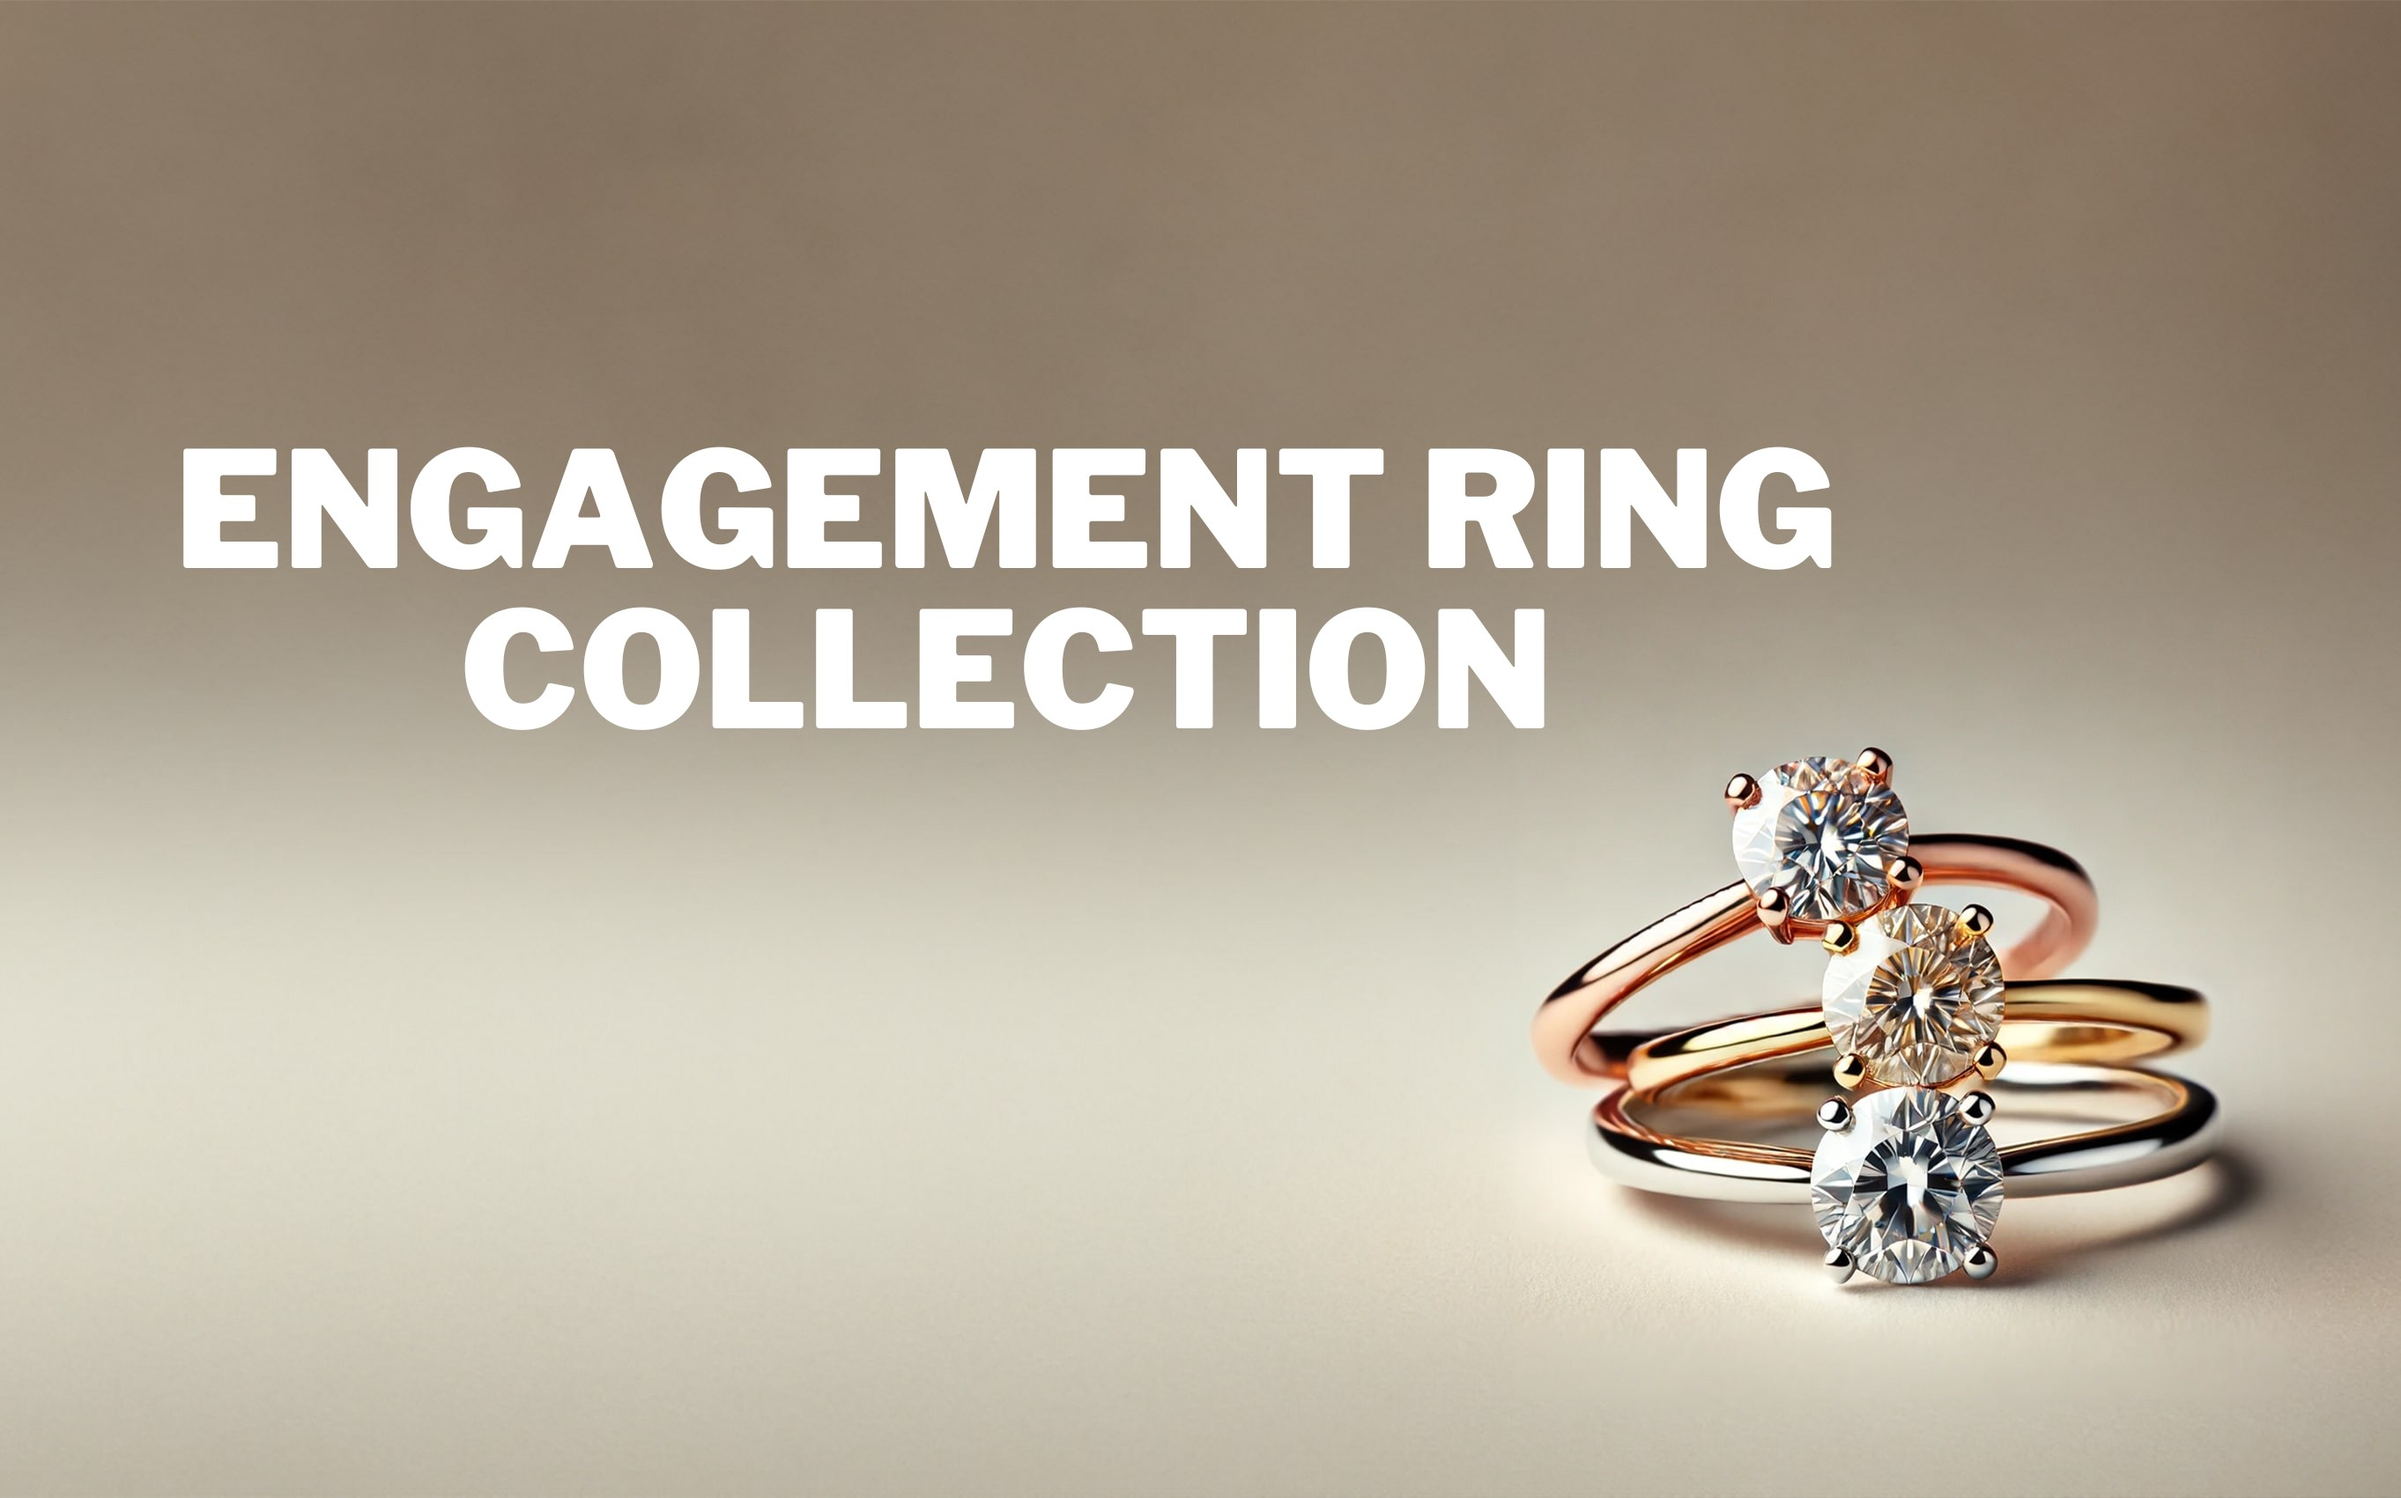
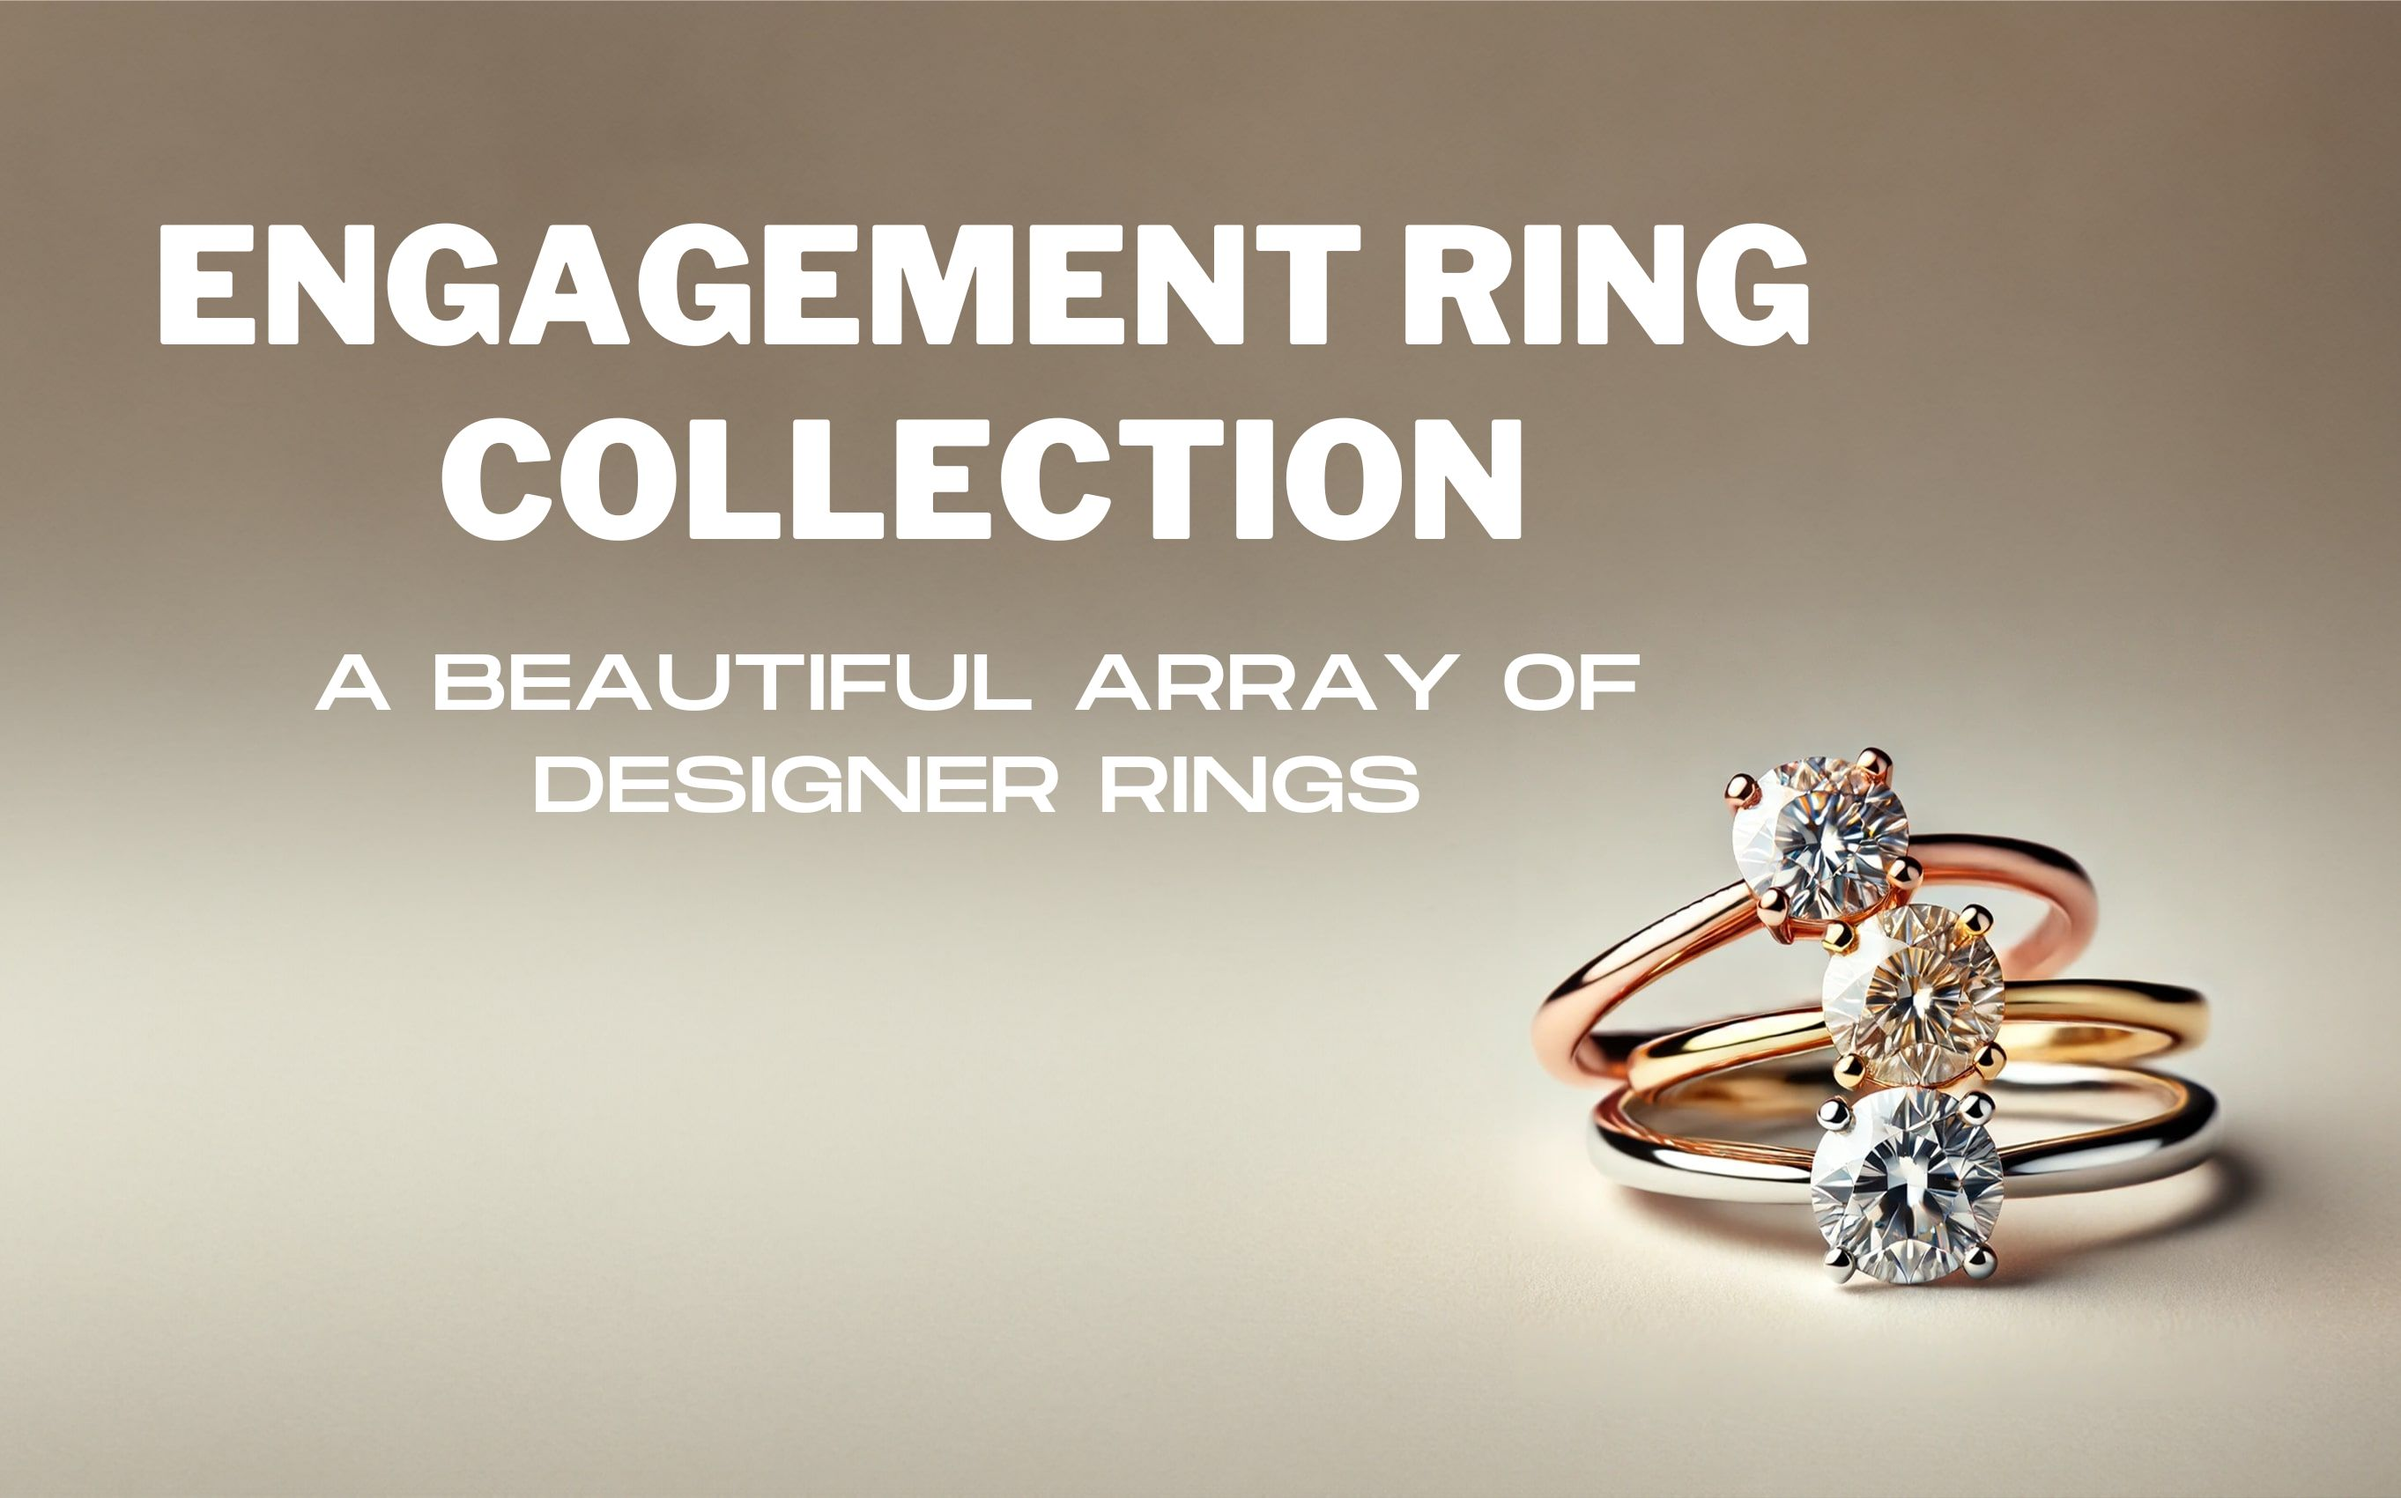
updated hero image on ring category page

Changed region(s): [[0.0624, 0.2804, 0.7798, 0.5608], [0.0624, 0.1246, 0.7798, 0.2493]]

diff --git a/app/rings/RingsCategoryClient.jsx b/app/rings/RingsCategoryClient.jsx
@@ -31,22 +31,15 @@ export default function RingsCategoryClient({ rings }){
               width={3320}
               height={2213}
               alt={'hero image of rings'}
-              className={styles.imageRing}
+              className={styles.imageRingHero}
               quality={100}
             />
 
             {/* <h1 className={styles.titleMain}>ENGAGEMENT RING COLLECTION</h1> */}
 
             <div className={styles.contentTopContainer}>
-            <p className={styles.catDescription}>
-                A beautiful collection of bespoke Gold and Platinum 
-                engagement rings for the perfect moment
-            </p>
             
-            {/* CTA  */}
-            <div className={styles.contactDetailsBTNMobile}>
-                <Link href="tel:07718269994" className={styles.linkBTN} prefetch={true}>CONTACT</Link>
-            </div>
+            
             <div className={styles.contactBTNDesktop}>
                 <h3 className={styles.contactReview}>CONTACT</h3>
                 <div>07718 269 994</div>
@@ -113,6 +106,18 @@ export default function RingsCategoryClient({ rings }){
             ))
            )        
         }
+      </div>
+      {/* CTA  */}
+      <div className={styles.contactDetailsBTNMobile}>
+        <Link href="tel:07976753254" className={styles.linkBTN} prefetch={true}>CONTACT</Link>
+      </div>
+      <div className={styles.heroBtn}>
+        <Link
+          href={"https://wa.me/447976753254?text=Hi%20Luxury%20Times...."} 
+          className={styles.linkBTN}
+        >
+          WHATSAPP
+        </Link>
       </div>
     </main>
     )

diff --git a/app/rings/rings.module.css b/app/rings/rings.module.css
@@ -14,8 +14,20 @@
     font-size: 1.1rem;
 }
 
+.heroBtn {
+    margin: 40px auto;
+    padding: 10px;
+    max-width: 200px;
+    font-size: 1.1rem;
+    font-weight: 500;
+    text-align: center;
+    border-radius: 22px;
+    background: #91c0dc;
+    cursor: pointer;
+  }
+
 .contactDetailsBTNMobile {
-    margin: 0px auto 20px auto;
+    margin: 20px auto 20px auto;
     padding: 10px 30px;
     max-width: 150px;
     border: solid 2px #91c0dc;
@@ -70,6 +82,12 @@
     width: 100%;
     height: auto;
 } 
+
+.imageRingHero {
+    width: 100%;
+    height: auto;
+    margin-bottom: 50px;
+}
 
 .video {
     width: 100%;

diff --git a/app/rings/RingProductClient.jsx b/app/rings/RingProductClient.jsx
@@ -183,7 +183,7 @@ export default function RingProductClient({ ring }) {
       <div className={styles.priceAdditional}>£{price.toFixed(0)}</div>
       <div className={styles.textDropdown}>The price is inclusive of VAT and delivery</div>
       
-      <Link href="tel:07718269994" className={styles.linkBTN}>
+      <Link href="tel:07976753254" className={styles.linkBTN}>
        <div className={styles.BTNappointment} align="center">Request an Appointment</div>
       </Link>
 

diff --git a/app/page.js b/app/page.js
@@ -94,6 +94,18 @@ export default async function Home() {
           </div>
       </section>
 
+      <section>
+        <Image
+          src={`/jewellery/engagement.jpg`}
+          width={3320}
+          height={2213}
+          alt={'hero image of rings'}
+          className={styles.imageRing}
+          quality={100}
+        />
+      </section>
+            
+
       {/* GUIDES SECTION */}
       <section className={styles.guideHighlightGrid}>
        
